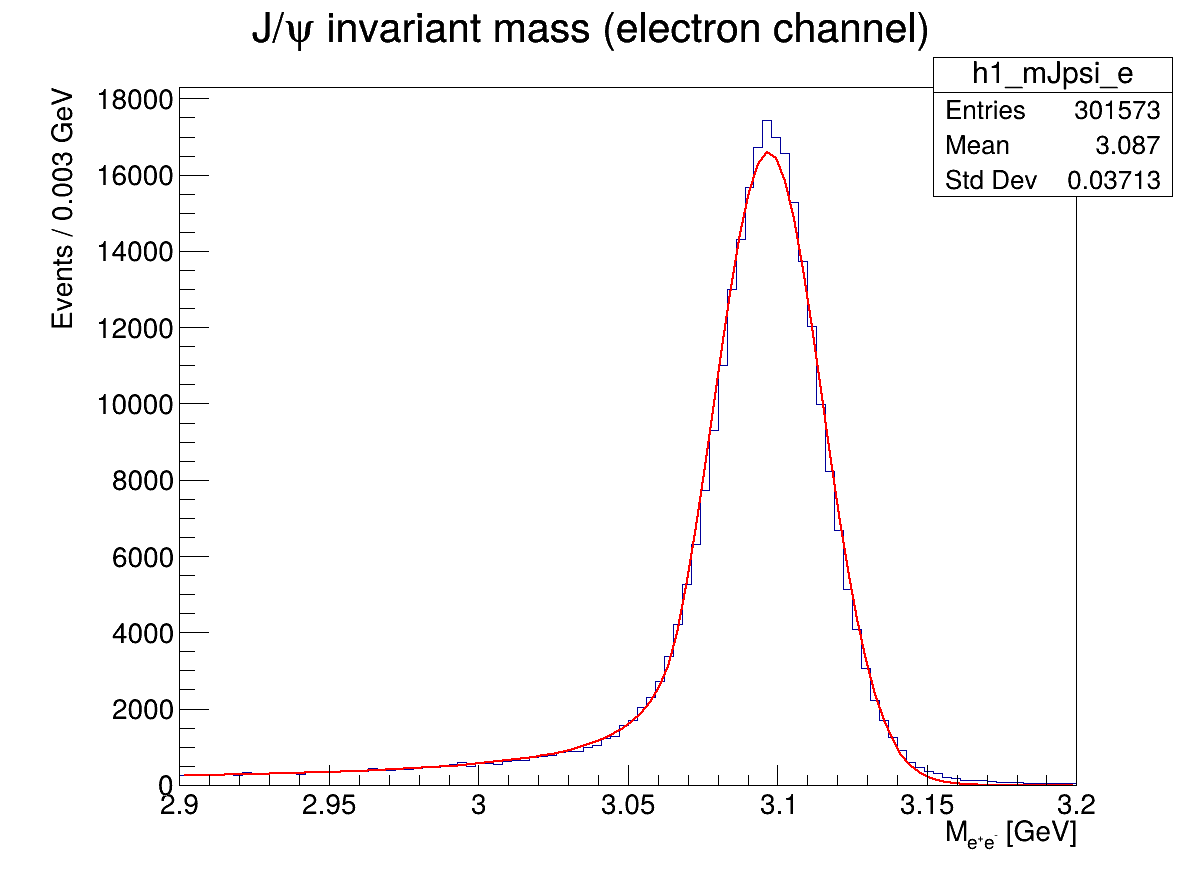
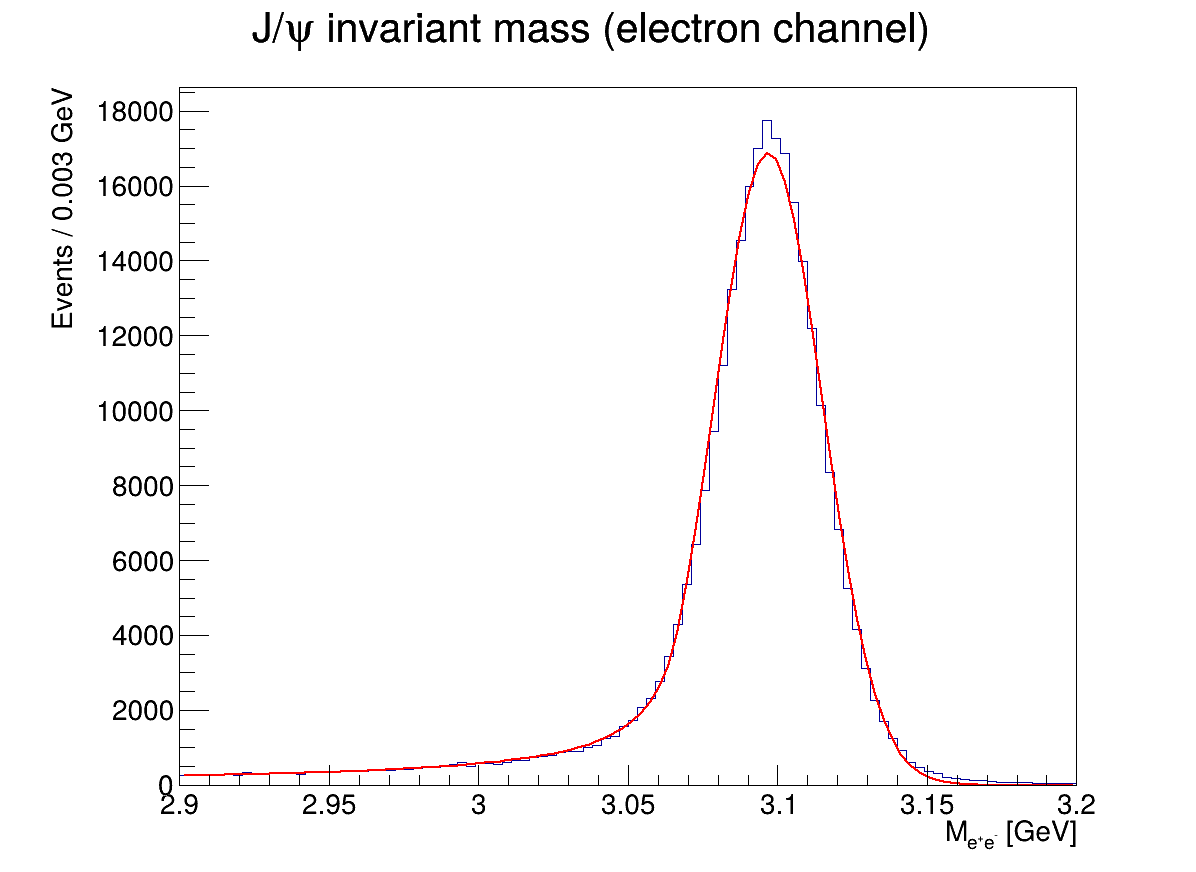
fixed the E over P and solved 3.3 with gaussian and the voight fit

diff --git a/part1_PID/ZcAnalysis.C b/part1_PID/ZcAnalysis.C
@@ -30,7 +30,7 @@ void ZcAnalysis::Loop(TString savePath)
 {
     // Some settings
     gROOT->SetBatch(true); // no graphical output during execution
-    // gStyle->SetOptStat(0); // no statistics box on histograms
+    gStyle->SetOptStat(0); // no statistics box on histograms
 
 
     //=============================================================================
@@ -84,10 +84,31 @@ TH1D* h1_mJpsi_mu = new TH1D(
     "J/#psi invariant mass (muon channel);M_{#mu^{+}#mu^{-}} [GeV];Events",
     100, 2.9, 3.2
 );
+// problem 3.3
+TH1D* h1_mJpsi_recoil = new TH1D(
+    "h1_mJpsi_recoil",
+    "J/#psi mass from #pi^{+}#pi^{-} recoil;M_{recoil}(#pi^{+}#pi^{-}) [GeV];Events",
+    100, 2.9, 3.2
+);
 //Problem 2.4
 double m_pi = 0.13957;   // GeV
 double m_e  = 0.000511;  // GeV
 double m_mu = 0.10566;   // GeV
+// problem 3.3
+double sqrt_s = 4.25797;
+double theta  = 0.011;
+double me_beam = 0.000511;
+
+// beam energy and momentum
+double Ei = sqrt((sqrt_s*sqrt_s - 4*me_beam*me_beam*sin(theta)*sin(theta))) / (2*cos(theta));
+double pi = sqrt(Ei*Ei - me_beam*me_beam);
+
+// beam four-vectors
+P4E pe_plus(  pi*sin(theta), 0,  pi*cos(theta), Ei );
+P4E pe_minus( -pi*sin(theta),0, -pi*cos(theta), Ei );
+
+// center-of-mass four-vector
+P4E pCMS = pe_plus + pe_minus;
 int selectedEvents = 0;
     //=============================================================================
     // For-loop over all events in the root file
@@ -121,14 +142,13 @@ int selectedEvents = 0;
             P3 pTrack(dblTracksPx[i], dblTracksPy[i], dblTracksPz[i]);
           //problem 2.2  
             double p = pTrack.R();
-
+            double eEMC = dblTracksECal[i];
+            double dMUC = dblTracksMucDepth[i];
             // momentum cut to select leptons
 
             if (p > 1.0)
             {
-                double eEMC = dblTracksECal[i];
-                double dMUC = dblTracksMucDepth[i];
-
+                
                 h1_eEMC->Fill(eEMC);
                 h2_eEMC_vs_MUC->Fill(eEMC, dMUC);
             }
@@ -140,31 +160,34 @@ if (p > 0) {
 
     double EoverP = Eemc / p;
 
-    // Identify particle type using highest probability
-    if (dblTracksProbElectron[i] > dblTracksProbMuon[i] &&
-        dblTracksProbElectron[i] > dblTracksProbPion[i])
-    {
-        h1_EoverP_e->Fill(EoverP);
-    }
-    else if (dblTracksProbMuon[i] > dblTracksProbElectron[i] &&
-             dblTracksProbMuon[i] > dblTracksProbPion[i])
-    {
-        h1_EoverP_mu->Fill(EoverP);
-    }
-    else if (dblTracksProbPion[i] > dblTracksProbElectron[i] &&
-             dblTracksProbPion[i] > dblTracksProbMuon[i])
-    {
-        h1_EoverP_pi->Fill(EoverP);
-    }
+    
+    // PID using detector information
+
+// electrons: large E/p
+if (EoverP > 0.8)
+{
+    h1_EoverP_e->Fill(EoverP);
+}
+
+// muons: penetrate deeply into MUC
+else if (dMUC > 40)
+{
+    h1_EoverP_mu->Fill(EoverP);
+}
+
+// pions: hadrons, small MUC penetration
+else
+{
+    h1_EoverP_pi->Fill(EoverP);
+}
     // problem 2.4
-    double px = dblTracksPx[i];
+double px = dblTracksPx[i];
 double py = dblTracksPy[i];
 double pz = dblTracksPz[i];
 
 double charge = dblTracksCharge[i];
 
-double p = pTrack.R();
-double Eemc = dblTracksECal[i];
+
 // identify leptons vs pions
 if (p < 1.0)  // pion
 {
@@ -177,7 +200,6 @@ if (p < 1.0)  // pion
 }
 else
 {
-    // leptons
     if (EoverP > 0.8)   // electron
     {
         P4M electron(px, py, pz, m_e);
@@ -187,7 +209,7 @@ else
         else
             e_minus.push_back(electron);
     }
-    else                // muon
+    else if (dblTracksMucDepth[i] > 40)   // muon
     {
         P4M muon(px, py, pz, m_mu);
 
@@ -196,7 +218,19 @@ else
         else
             mu_minus.push_back(muon);
     }
+    else
+    {
+        P4M pion(px, py, pz, m_pi);
+
+        if (charge > 0)
+            pi_plus.push_back(pion);
+        else
+            pi_minus.push_back(pion);
+    }
 }
+     // Fill the absolute momentum of all charged tracks in the histogram
+            h1_pTracks->Fill(pTrack.R()); // R() gives the length of the vector
+        }
 bool electronEvent =
     (pi_plus.size()==1 && pi_minus.size()==1 &&
      e_plus.size()==1 && e_minus.size()==1);
@@ -204,7 +238,16 @@ bool electronEvent =
 bool muonEvent =
     (pi_plus.size()==1 && pi_minus.size()==1 &&
      mu_plus.size()==1 && mu_minus.size()==1);
+// problem 3.3
+// reconstruct J/psi from pion recoil
+if (pi_plus.size()==1 && pi_minus.size()==1)
+{
+    P4M pions = pi_plus[0] + pi_minus[0];
 
+    P4E pJpsi_recoil = pCMS - pions;
+
+    h1_mJpsi_recoil->Fill(pJpsi_recoil.M());
+}
 if (!(electronEvent || muonEvent))
     continue;
     selectedEvents++;
@@ -219,13 +262,8 @@ if (muonEvent)
 {
     P4M Jpsi = mu_plus[0] + mu_minus[0];
     h1_mJpsi_mu->Fill(Jpsi.M());
-}}
-    
-    
-            // Fill the absolute momentum of all charged tracks in the histogram
-            h1_pTracks->Fill(pTrack.R()); // R() gives the length of the vector
-        }
-
+} // end of muon loop
+} // end of event loop
         //=============================================================================
         // End of selection
         //=============================================================================
@@ -375,6 +413,57 @@ g2->SetLineStyle(2);
 g2->Draw("same");
 
     canvas->SaveAs(savePath + "6_Jpsi_mass_muon_doubleFit.png");
+}
+// problem 3.3
+{
+    TCanvas* canvas = new TCanvas("canvas","canvas",1200,900);
+    canvas->SetLeftMargin(0.15);
+
+    double binWidth = h1_mJpsi_recoil->GetBinWidth(1);
+    h1_mJpsi_recoil->GetYaxis()->SetTitle(Form("Events / %.3f GeV", binWidth));
+
+    h1_mJpsi_recoil->Draw();
+
+    TF1* ffit_gaus = new TF1("ffit_gaus","gaus",2.95,3.15);
+
+    ffit_gaus->SetParameters(
+        20000,   // amplitude
+        3.097,   // mean
+        0.01     // sigma
+    );
+
+    h1_mJpsi_recoil->Fit(ffit_gaus,"R");
+
+    canvas->SaveAs(savePath + "Jpsi_recoil_gaussian_fit.png");
+}
+{
+    TCanvas* canvas = new TCanvas("canvas","canvas",1200,900);
+    canvas->SetLeftMargin(0.15);
+
+    h1_mJpsi_recoil->Draw();
+    double binWidth = h1_mJpsi_recoil->GetBinWidth(1);
+    double norm = h1_mJpsi_recoil->GetMaximum();
+
+TF1* ffit_voigt = new TF1(
+    "ffit_voigt",
+    Form("[0]*TMath::Voigt(x-[1],[2],[3])*%f", binWidth),
+    2.95,
+    3.15
+);
+
+ffit_voigt->SetParameters(
+    norm,     // normalization
+    3.097,    // mean
+    0.01,     // sigma (detector resolution)
+    0.0001    // gamma (natural width)
+);
+
+ffit_voigt->SetLineColor(kRed);
+ffit_voigt->SetLineWidth(2);
+
+h1_mJpsi_recoil->Fit(ffit_voigt,"R");
+
+    canvas->SaveAs(savePath + "Jpsi_recoil_voigt_fit.png");
 }
         // h1_pTracks->Draw(); // Draw the histogram on the canvas
 
